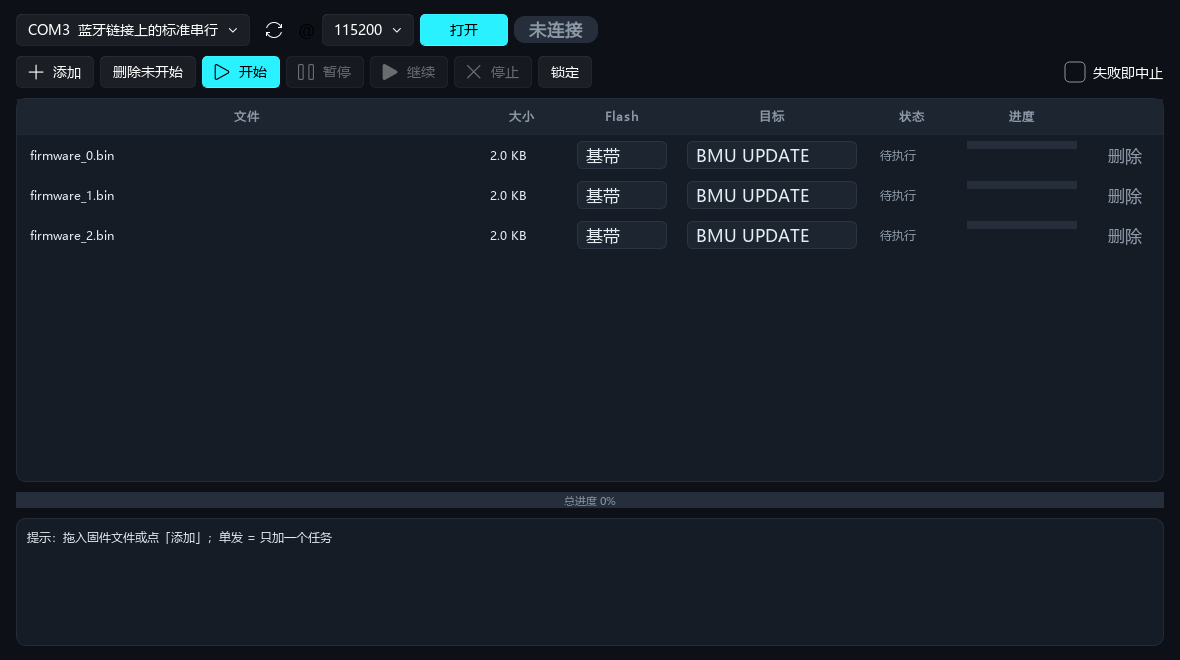
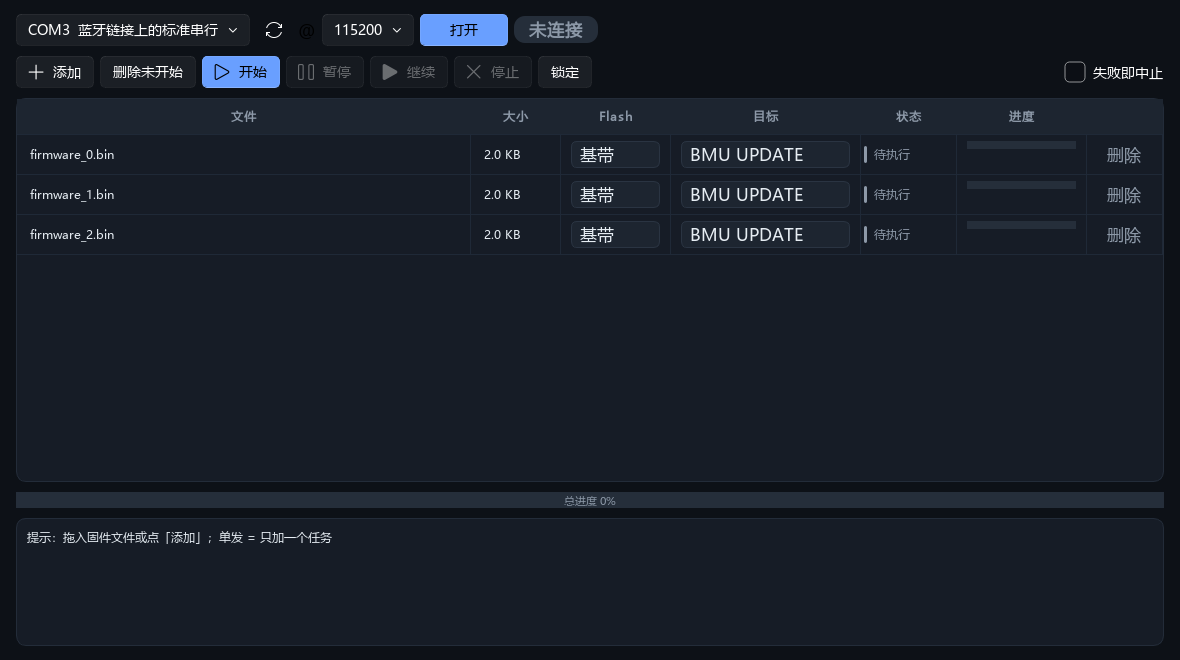
style(gui-ng): 修掉 qfluentwidgets 默认青绿强调色（setThemeColor 主蓝）+ 状态列 delegate 色条

diff --git a/uicmp/apps/transfer_app.py b/uicmp/apps/transfer_app.py
@@ -14,12 +14,12 @@ FlashDownWindow + BatchFlashDownWindow 两个窗口）。
 """
 import os
 
-from PyQt5.QtCore import Qt
-from PyQt5.QtGui import QBrush, QColor
+from PyQt5.QtCore import Qt, QRect
+from PyQt5.QtGui import QBrush, QColor, QPainter
 from PyQt5.QtWidgets import (QDialog, QVBoxLayout, QHBoxLayout, QLabel,
                              QTableWidget, QTableWidgetItem, QComboBox,
                              QProgressBar, QPushButton, QHeaderView,
-                             QAbstractItemView, QFrame)
+                             QAbstractItemView, QFrame, QStyledItemDelegate)
 
 from qfluentwidgets import (PushButton, PrimaryPushButton, CheckBox,
                             CaptionLabel, FluentIcon as FIF)
@@ -90,7 +90,38 @@ STATUS_COLOR = {
     T_SKIPPED: ('#9aa6b5', '#5b6b7b'),
 }
 
+# 列：0=文件 1=大小 2=Flash 3=目标 4=状态 5=进度 6=删除
 COL_FILE, COL_SIZE, COL_FLASH, COL_MEM, COL_STATUS, COL_PROGRESS, COL_DEL = range(7)
+
+
+class _StatusDelegate(QStyledItemDelegate):
+    """状态列：默认绘制右侧文字，左缘画 3px 圆角色条（颜色即状态）。
+
+    ⚠ 为什么用 delegate 而不是列内 widget/item 背景：
+    ① item.setBackground 会被 QSS ::item 规则静默忽略
+    ② cellWidget 会被 ::item 的 padding 榨成 0 宽（10px 列 - 20px padding）
+    delegate 的 paint 不受这两者影响，是在 opt.rect 上直接画（实测结论）。
+    """
+
+    def __init__(self, get_dark, parent=None):
+        super(_StatusDelegate, self).__init__(parent)
+        self._get_dark = get_dark
+
+    def paint(self, painter, opt, index):
+        super(_StatusDelegate, self).paint(painter, opt, index)
+        status = index.data(Qt.UserRole)
+        if not status:
+            return
+        lf, df = STATUS_COLOR.get(status, ('#5b6b7b', '#8d99a8'))
+        color = QColor(df if self._get_dark() else lf)
+        r = opt.rect
+        painter.save()
+        painter.setRenderHint(QPainter.Antialiasing, True)
+        painter.setPen(Qt.NoPen)
+        painter.setBrush(QBrush(color))
+        bar = QRect(r.left() + 3, r.top() + 11, 3, r.height() - 22)
+        painter.drawRoundedRect(bar, 1.5, 1.5)
+        painter.restore()
 
 
 class _DropArea(QFrame):
@@ -179,10 +210,12 @@ class TransferApp(QDialog):
         self.table.verticalHeader().setVisible(False)
         self.table.verticalHeader().setDefaultSectionSize(40)
         self.table.horizontalHeader().setFixedHeight(36)
+        self.table.setItemDelegateForColumn(
+            COL_STATUS, _StatusDelegate(lambda: self._dark))
         self.table.horizontalHeader().setSectionResizeMode(
             COL_FILE, QHeaderView.Stretch)
         for col, w in ((COL_SIZE, 90), (COL_FLASH, 110), (COL_MEM, 190),
-                       (COL_STATUS, 90), (COL_PROGRESS, 130), (COL_DEL, 76)):
+                       (COL_STATUS, 96), (COL_PROGRESS, 130), (COL_DEL, 76)):
             self.table.horizontalHeader().setSectionResizeMode(
                 col, QHeaderView.Fixed)
             self.table.setColumnWidth(col, w)
@@ -315,6 +348,7 @@ class TransferApp(QDialog):
         status_item = item(STATUS_TEXT.get(t.status, t.status))
         lf, df = STATUS_COLOR.get(t.status, ('#5b6b7b', '#8d99a8'))
         status_item.setForeground(QColor(df if self._dark else lf))
+        status_item.setData(Qt.UserRole, t.status)     # delegate 画色条用
         self.table.setItem(row, COL_STATUS, status_item)
 
         flash_combo = QComboBox()

diff --git a/uicmp/guiwidgets/theme.py b/uicmp/guiwidgets/theme.py
@@ -23,7 +23,8 @@ from PyQt5.QtCore import Qt
 from PyQt5.QtGui import QColor, QPalette, QFont
 from PyQt5.QtWidgets import QWidget, QLabel, QSizePolicy
 
-from qfluentwidgets import (Theme, setTheme, CardWidget, ElevatedCardWidget)
+from qfluentwidgets import (Theme, setTheme, setThemeColor,
+                            CardWidget, ElevatedCardWidget)
 
 # ---------------------------------------------------------------- 色板 token
 # 命名约定：不带后缀 = 浅色用；*_D = 深色用。页面代码禁止散写色值，
@@ -187,6 +188,10 @@ def apply_theme(win, dark):
     顶层背景（QPalette + 窗口 QSS）、已建卡片底色、字体。
     """
     setTheme(Theme.DARK if dark else Theme.LIGHT)
+    # 坑④（2026-09-20 补）：qfluentwidgets 出厂强调色是青绿 #009faa——
+    # 不显式设置的话，PrimaryPushButton/CheckBox/Switch 全是那个绿调。
+    # 必须每次随主题重设：→ 主蓝（浅 #2f6fed / 深 #4c8dff）
+    setThemeColor(C_PRIMARY_D if dark else C_PRIMARY)
 
     # 坑①：setTheme 不管顶层背景 → QPalette + QSS 双保险
     pal = win.palette()
